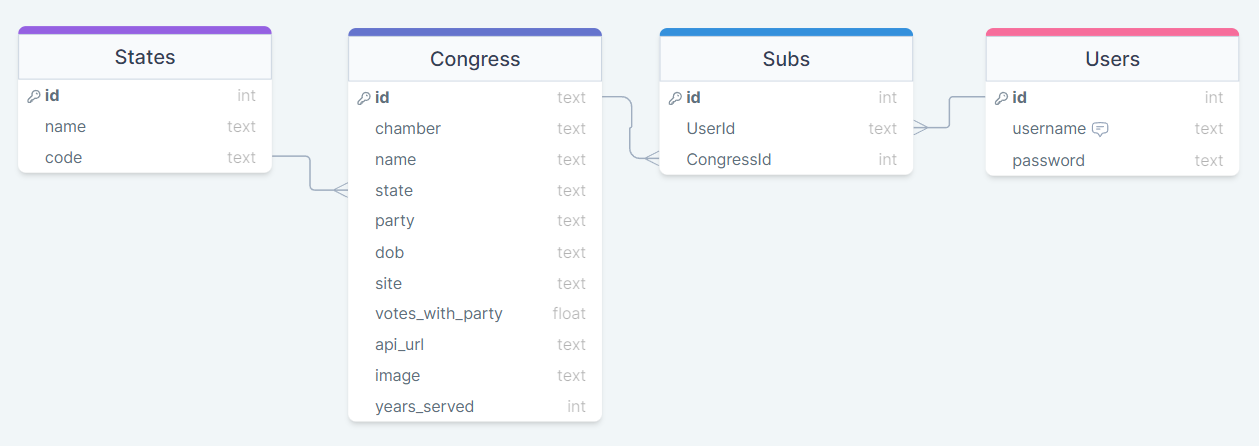
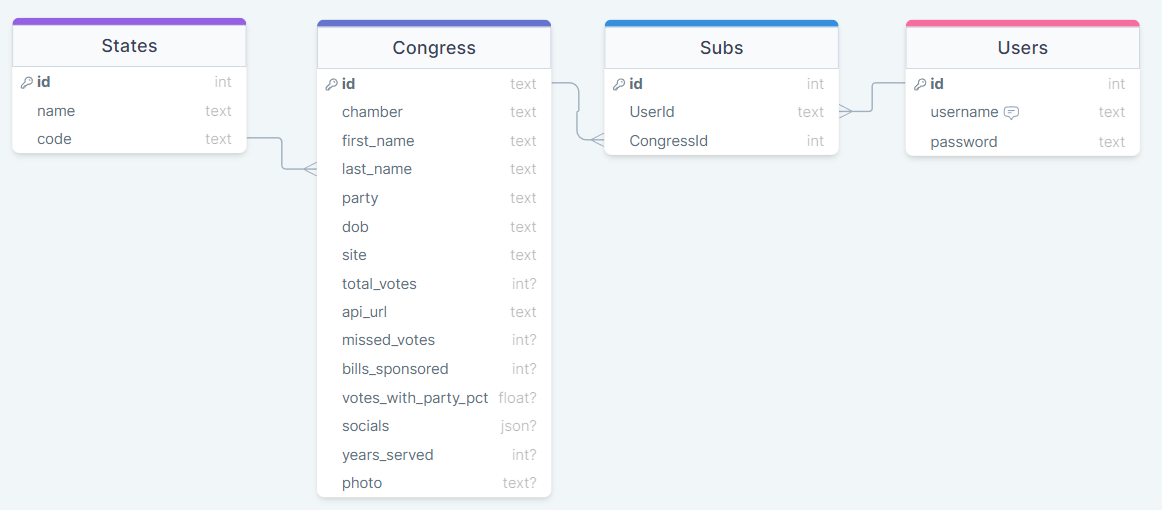
updated api routes. Added secondaryMemberData requests to /member/:id requests

diff --git a/express/Routes/congressRoutes.js b/express/Routes/congressRoutes.js
@@ -22,45 +22,16 @@ router.get("/states/:state", async function (req, res, next) {
     try {
         const results = await CongressUtils.getMembersFromState(state);
         if (results.length) {
-            return res.status(200).json({ "data": results })
+            return res.status(200).json({ "data": results });
         } else {
             const clientError = new ExpressError(`No members belong to ${state} state`, 400);
             return next(clientError);
         }
     } catch (error) {
-        const dbError = new ExpressError(error.message, 500);
+        const dbError = new ExpressError(error.message, error.status);
         return next(dbError);
     }
 });
-
-router.get("/members", async function (req, res, next) {
-    // Returns array of all member objects in DB
-    try {
-        const members = await CongressUtils.getAllMembers();
-        return res.status(200).json({ "data": members });
-    } catch (error) {
-        const dbError = new ExpressError(error.message, 500);
-        return next(dbError);
-    }
-
-})
-
-router.get("/members/:chamber", async function (req, res, next) {
-    // Returns array of all member objects in DB serving in chamber
-    const chamber = req.params.chamber;
-    try {
-        const members = await CongressUtils.getMembersFromChamber(chamber);
-        if (members.length) {
-            return res.status(200).json({ "data": members });
-        } else {
-            clientError = new ExpressError(`No members in ${chamber} chamber`, 400)
-            return next(clientError);
-        }
-    } catch (error) {
-        const dbError = new ExpressError(error.message, 500);
-        return next(dbError);
-    }
-})
 
 router.get("/member/:id", async function (req, res, next) {
     // Returns member obj with id
@@ -78,5 +49,37 @@ router.get("/member/:id", async function (req, res, next) {
         return next(dbError);
     }
 });
+
+// Route /members is disabled until future use is established
+
+// router.get("/members", async function (req, res, next) {
+//     // Returns array of all member objects in DB
+//     try {
+//         const members = await CongressUtils.getAllMembers();
+//         return res.status(200).json({ "data": members });
+//     } catch (error) {
+//         const dbError = new ExpressError(error.message, 500);
+//         return next(dbError);
+//     }
+// })
+
+// Route /members/:chamber disabled until future use is established
+
+// router.get("/members/:chamber", async function (req, res, next) {
+//     // Returns array of all member objects in DB serving in chamber
+//     const chamber = req.params.chamber;
+//     try {
+//         const members = await CongressUtils.getMembersFromChamber(chamber);
+//         if (members.length) {
+//             return res.status(200).json({ "data": members });
+//         } else {
+//             clientError = new ExpressError(`No members in ${chamber} chamber`, 400)
+//             return next(clientError);
+//         }
+//     } catch (error) {
+//         const dbError = new ExpressError(error.message, 500);
+//         return next(dbError);
+//     }
+// })
 
 module.exports = router;

diff --git a/express/Routes/Utilities/congressUtils.js b/express/Routes/Utilities/congressUtils.js
@@ -18,7 +18,7 @@ class CongressUtilities {
         const tasks = [];
 
         for (let member of members) {
-            if (!member.photo) {
+            if (!member.socials) {
                 tasks.push(API_Utils.getSecondaryMemberInfo(member.getDataValue('api_url'), member.getDataValue('id')));
             }
         }
@@ -34,8 +34,8 @@ class CongressUtilities {
                                 updateData[key] = addData[key];
                             }
                         }
-                        member.update(updateData);
-                        member.reload();
+                        await member.update(updateData);
+                        await member.reload();
                         break;
                     }
                 }
@@ -58,8 +58,20 @@ class CongressUtilities {
             where: { id },
             include: States
         });
-        const addData = await API_Utils.getSecondaryMemberInfo(member.getDataValue('api_url'), id);
-        return { ...member.dataValues, ...addData };
+
+        // add check for member.photo ? return member : request secondary info + reload member before return member
+
+        if (!member.socials) {
+            const addData = await API_Utils.getSecondaryMemberInfo(member.getDataValue('api_url'), member.getDataValue('id'));
+            await member.update({ ...addData });
+            await member.reload();
+            return member;
+        }
+
+        return member;
+
+        // const addData = await API_Utils.getSecondaryMemberInfo(member.getDataValue('api_url'), id);
+        // return { ...member.dataValues, ...addData };
     }
 
 

diff --git a/sequelize/extraDBSetup.js b/sequelize/extraDBSetup.js
@@ -2,8 +2,8 @@ function applyExtraSetup(sequelize) {
     const { Congress, Subs, States, Users } = sequelize.models;
 
     // One -> Many (States -> Congress) One State has many congress members. Each congress member has one state
-    Congress.belongsTo(States, { targetKey: 'code', foreignKey: 'state' });
-    States.hasMany(Congress, { foreignKey: 'state' });
+    Congress.State = Congress.belongsTo(States, { targetKey: 'code', foreignKey: 'state' });
+    States.Members = States.hasMany(Congress, { foreignKey: 'state' });
 
     // Many <--> Many (Congress <--> Users) through Subs. One user can be subbed to many congress members. One congress member can be subbed by many users
 

diff --git a/sequelize/Models/congressModel.js b/sequelize/Models/congressModel.js
@@ -30,10 +30,6 @@ module.exports = (sequelize) => {
             allowNull: false,
             type: DataTypes.STRING
         },
-        state: {
-            allowNull: false,
-            type: DataTypes.STRING
-        },
         site: {
             allowNull: false,
             type: DataTypes.STRING

diff --git a/README.md b/README.md
@@ -2,13 +2,7 @@
 Political Informant Application - Express Backend w/ PostgreSQL DB
 
 ## ToDo:
- - Update API to account for secondary data requests on members being done when State Members is requested
-   - Cuts down on total secondary requests to a more manageable number
-   - Caches information, will only perform secondary request if the member data is not there.
-    - Need to Set /member/:id to request secondary info if not available
-    - Check other Routes for necessary updates -OR- disable until future use is established
- - Update DB_schema to represent additional collumns in Congress Table
- - Update Readme to reflect changes to API
+ - Nothing at this point. Front-end Work!
 
 ## Technical Overview
 Express.js REST API handling a PostgreSQL DB
@@ -25,8 +19,7 @@ Express.js REST API handling a PostgreSQL DB
       - Limited to 5000 Requests per day
     - [Congress.gov API](https://api.congress.gov/#/)
       - Used to get Member Photo URL
-        - Currently getting CORS error - Server Side issue - Will implement later
-  - Congressional Member data will be sanatized before being stored. Will only be served via GET requests.
+    - Congressional Member data will be sanatized before being stored. Will only be served via GET requests.
   - User login/loggout/create via POST requests
 
 ### Database Schema
@@ -40,5 +33,10 @@ Express.js REST API handling a PostgreSQL DB
     - youtube
   - bills_sponsored
   - bills_cosponsored
+  - total_votes
+  - missed_votes
+  - votes_with_party_pct
+  - years_served
+  - photo
 
 This info will be added to the response json back to Client. Client will be saving the complete member object locally in the component/redux (TBD)

diff --git a/express/README.md b/express/README.md
@@ -19,6 +19,6 @@
 - /api/congress - Congress Routes - ALL GET ROUTES
   - /api/congress/states - Returns Array of state objects
     - /api/congress/states/:state - Returns array of member objects from :state
-  - /api/congress/members - Returns Array of congress member objects
-  - /api/congress/members/:chamber - Returns Array of member objects serving in :chamber
+  - (CURRENTLY INACTIVE) /api/congress/members - Returns Array of congress member objects
+  - (CURRENTLY INACTIVE) /api/congress/members/:chamber - Returns Array of member objects serving in :chamber
   - /api/congress/member/:id - Returns member object with :id
